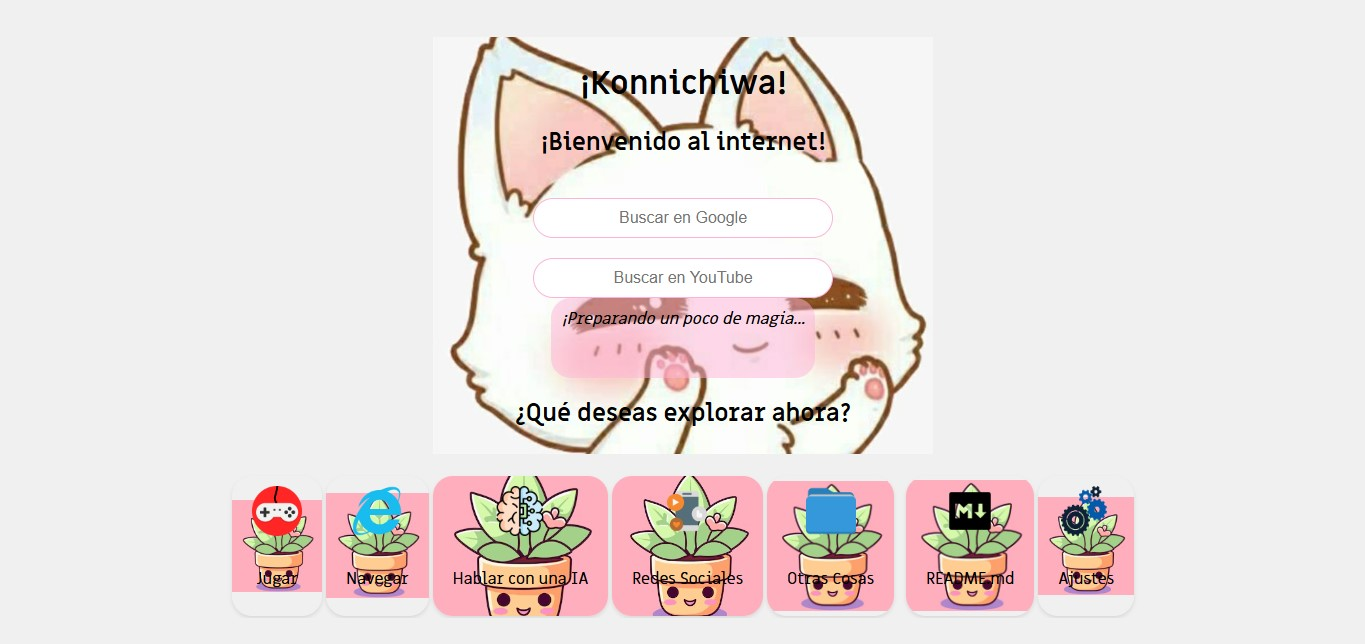
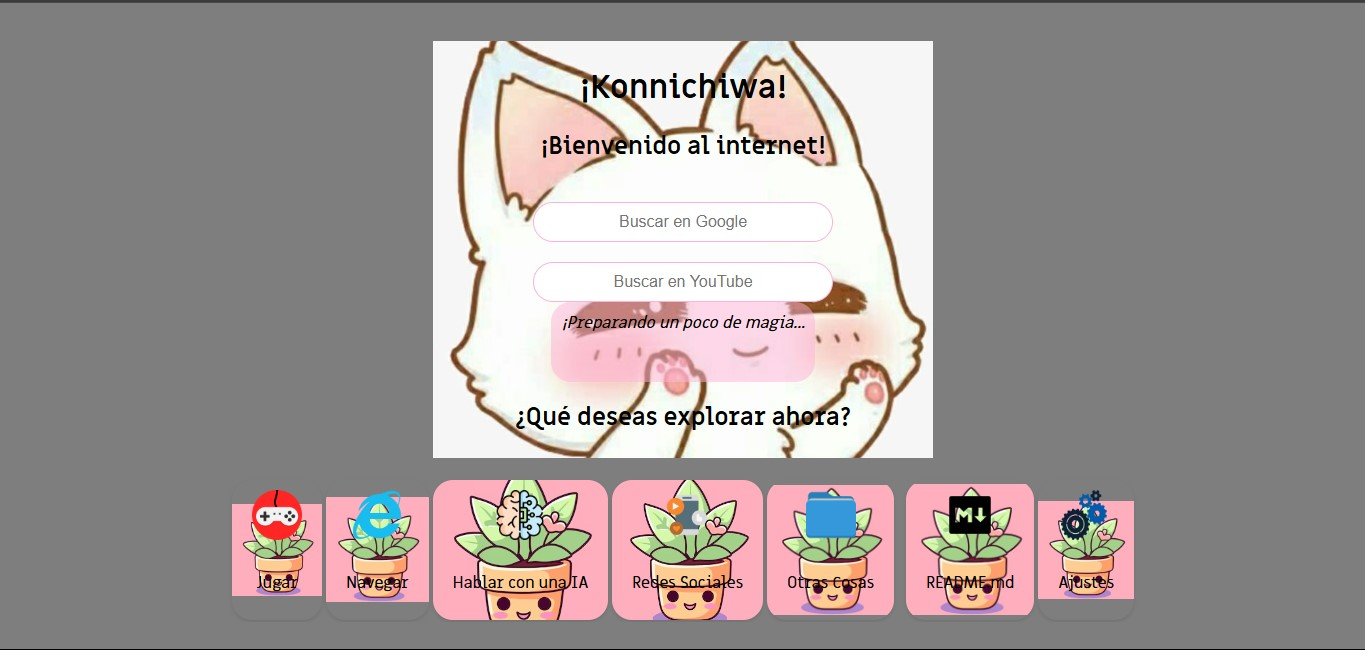
Adicion del estilo ModernClean

diff --git a/index.html b/index.html
@@ -10,8 +10,7 @@
         background-size: cover;
         background-position: center;
         background-repeat: no-repeat;
-        background-color: #f0f0f0;
-        background-image: url('../../img/fondo/loading.png');
+        background-color: #7a7a7af6;
     }</style>
 </head>
 <body id="body">
@@ -126,15 +125,43 @@
   </div>
     
     <div class="frase">
-        <label id="frase3">Cargando Frase...</label>
+        <label id="frase3">...</label>
     </div>
 
 </div>
 
-    <script src="js/style.js"></script>
-    <script src="js/img.js"></script>
+<div class="css4">
+    <div class="container">
+        <h1>¿Qué deseas hacer ahora?</h1>
+        <form id="googleForm4">
+            <input type="text" name="query" placeholder="Buscar en Google" class="busquedaInput">
+        </form>
+        
+        <form id="youtubeForm4">
+            <input type="text" name="query" placeholder="Buscar en YouTube" class="busquedaInput">
+        </form>
+
+        <div class="frase">
+            <label id="frase4">Explorando en el JSON...</label>
+          </div>
+          <br><br><br>
+            <a href="html/Jugar.html" class="button" id="jugar"><img src="img/iconos/Control.png" alt="Jugar" class="button-img"><p>Jugar</p></a>
+            <a href="html/Navegar.html" class="button" id="navegar"><img src="img/iconos/Navegar.png" alt="Navegar" class="button-img"><p>Navegar</p></a>
+            <a href="html/IA.html" class="button" id="hablar"><img src="img/iconos/AI.png" alt="Hablar con una IA" class="button-img"><p>Hablar con una IA</p></a>
+
+            
+            <a href="html/Otro.html" class="button" id="jugar"><img src="img/iconos/Otros.png" alt="Jugar" class="button-img"><p>Otras Cosas</p></a>
+            <a href="html/Config.html" class="button" id="jugar"><img src="img/iconos/Ajustes.png" alt="Jugar" class="button-img"><p>Ajustes</p></a>
+       
+            <a href="html/Readme.html" class="button otros" id="otros"><p>README.md</p></a>
+            <a href="html/Redes.html" class="button otros" id="otros"><p>Redes</p></a>
+       
+</div>
+
     <script src="js/frase.js"></script>
     <script src="js/google.js"></script>
+    <script src="js/img.js"></script>
+    <script src="js/style.js"></script>
     <script src="js/youtube.js"></script>
     <script>
         mostrarFraseAleatoria();

diff --git a/css/index/modernclean.css b/css/index/modernclean.css
@@ -1,0 +1,94 @@
+* {
+    margin: 0;
+    padding: 0;
+    box-sizing: border-box;
+    font-family: 'Arial', sans-serif;
+}
+
+.container {
+    width: 80%;
+    margin: 0 auto;
+    padding: 20px;
+    text-align: center;
+    color: #ffffff; 
+}
+
+.redes-link img {
+    width: 50px;
+    height: 50px;
+}
+
+h1 {
+    margin-top: 20px;
+    font-size: 2.5em;
+    color: #ffffff; 
+}
+
+form {
+    margin: 20px 0;
+}
+
+.busquedaInput {
+    width: 60%;
+    padding: 10px;
+    font-size: 1em;
+    border: 1px solid #ccc;
+    border-radius: 5px;
+    transition: all 0.3s;
+}
+
+.busquedaInput:focus {
+    border-color: #007BFF;
+    outline: none;
+}
+
+.frase {
+    width: 65%;
+    height: 60px;
+    padding: 20px;
+    margin: 20px auto;
+    font-size: 1.2em;
+    color: #ffffff;
+    background-color: rgba(56, 56, 56, 0.555);
+    padding: 10px;
+    border-radius: 5px;
+}
+
+.button {
+    display: inline-block;
+    margin: 15px;
+    padding: 15px 20px;
+    text-align: center;
+    color: #fff;
+    background-color: #ff4141cc;
+    border-radius: 10px;
+    text-decoration: none;
+    transition: all 0.3s;
+    width: 150px;
+}
+
+.button:hover {
+    background-color: #ff2121;
+}
+
+.button-img {
+    width: 40px;
+    height: 40px;
+    display: block;
+    margin: 0 auto 10px;
+}
+
+.otros {
+    background-color: rgba(56, 56, 56, 0.555);
+}
+
+.otros:hover {
+    background-color: rgba(56, 56, 56);
+}
+
+
+.css1,
+.css2,
+.css3{
+    display: none;
+}

diff --git a/js/select.js b/js/select.js
@@ -13,6 +13,9 @@ document.addEventListener('DOMContentLoaded', function() {
         case 'windows':
             body.style.backgroundImage = "url('" + imagePath + "windows.jpg')";
             break;
+            case 'modernclean':
+                body.style.backgroundImage = "url('" + imagePath + "modernclean.jpg')";
+                break;
         default:
             body.style.backgroundImage = "none";
     }
@@ -32,6 +35,9 @@ document.getElementById('styleSelect').addEventListener('change', function() {
             break;
         case 'windows':
             body.style.backgroundImage = "url('" + imagePath + "windows.jpg')";
+            break;
+        case 'modernclean':
+            body.style.backgroundImage = "url('" + imagePath + "modernclean.jpg')";
             break;
         default:
             body.style.backgroundImage = "none";

diff --git a/js/frase.js b/js/frase.js
@@ -2,6 +2,7 @@ function mostrarFraseAleatoria() {
   document.getElementById("frase").innerHTML = 'Cargando Frase...';
   document.getElementById("frase2").innerHTML = '¡Preparando un poco de magia...';
   document.getElementById("frase3").innerHTML = '...';
+  document.getElementById("frase4").innerHTML = 'Explorando en el JSON...';
 
   fetch('./json/frases.json') 
     .then(response => response.json())
@@ -16,6 +17,7 @@ function mostrarFraseAleatoria() {
         document.getElementById("frase").innerHTML = fraseAleatoria;
         document.getElementById("frase2").innerHTML = fraseAleatoria;
         document.getElementById("frase3").innerHTML = fraseAleatoria;
+        document.getElementById("frase4").innerHTML = fraseAleatoria;
       } 
     })
     .catch(error => console.error('Error al cargar el archivo JSON:', error));

diff --git a/js/youtube.js b/js/youtube.js
@@ -15,3 +15,9 @@ document.getElementById('youtubeForm3').addEventListener('submit', function (e) 
     var query = this.querySelector('.busquedaInput').value;
     window.location.href = 'https://www.youtube.com/results?search_query=' + encodeURIComponent(query);
 });
+
+document.getElementById('youtubeForm4').addEventListener('submit', function (e) {
+    e.preventDefault();
+    var query = this.querySelector('.busquedaInput').value;
+    window.location.href = 'https://www.youtube.com/results?search_query=' + encodeURIComponent(query);
+});

diff --git a/js/google.js b/js/google.js
@@ -15,3 +15,9 @@ document.getElementById('googleForm3').addEventListener('submit', function (e) {
     var query = this.querySelector('.busquedaInput').value;
     window.location.href = 'https://www.google.com/search?q=' + encodeURIComponent(query);
 });
+
+document.getElementById('googleForm4').addEventListener('submit', function (e) {
+    e.preventDefault();
+    var query = this.querySelector('.busquedaInput').value;
+    window.location.href = 'https://www.google.com/search?q=' + encodeURIComponent(query);
+});

diff --git a/html/Config.html b/html/Config.html
@@ -13,6 +13,7 @@
             <option value="default">Estilo Default</option>
             <option value="cute">Estilo Cute</option>
             <option value="windows">Estilo Windows</option>
+            <option value="modernclean">Modern Clean</option>
         </select>
         <button id="guardarBtn">Guardar</button> 
     </div>

diff --git a/css/config.css b/css/config.css
@@ -53,3 +53,9 @@ option[value="windows"] {
     background-color: #007bff;
     color: #fff;
 }
+
+option[value="modernclean"] {
+    background-color: #00ff4c;
+    color: #fff;
+}
+

diff --git a/css/index/default.css b/css/index/default.css
@@ -101,9 +101,8 @@ p {
     margin-top: 15px;
 }
 
-.css2{
-    display: none;
-}
-.css3{
+.css2,
+.css3,
+.css4{
     display: none;
 }

diff --git a/css/index/windows.css b/css/index/windows.css
@@ -56,6 +56,7 @@ body, html {
 }
 
 .css1,
-.css2{
+.css2,
+.css4{
     display: none;
 }

diff --git a/css/index/cute.css b/css/index/cute.css
@@ -93,6 +93,7 @@ p{
 }
 
 .css1,
-.css3{
+.css3,
+.css4{
     display: none;
 }

diff --git a/css/index/nothing.css b/css/index/nothing.css
@@ -1,5 +1,6 @@
 .css1,
 .css2,
-.css3{
+.css3,
+.css4{
     display: none;
 }
